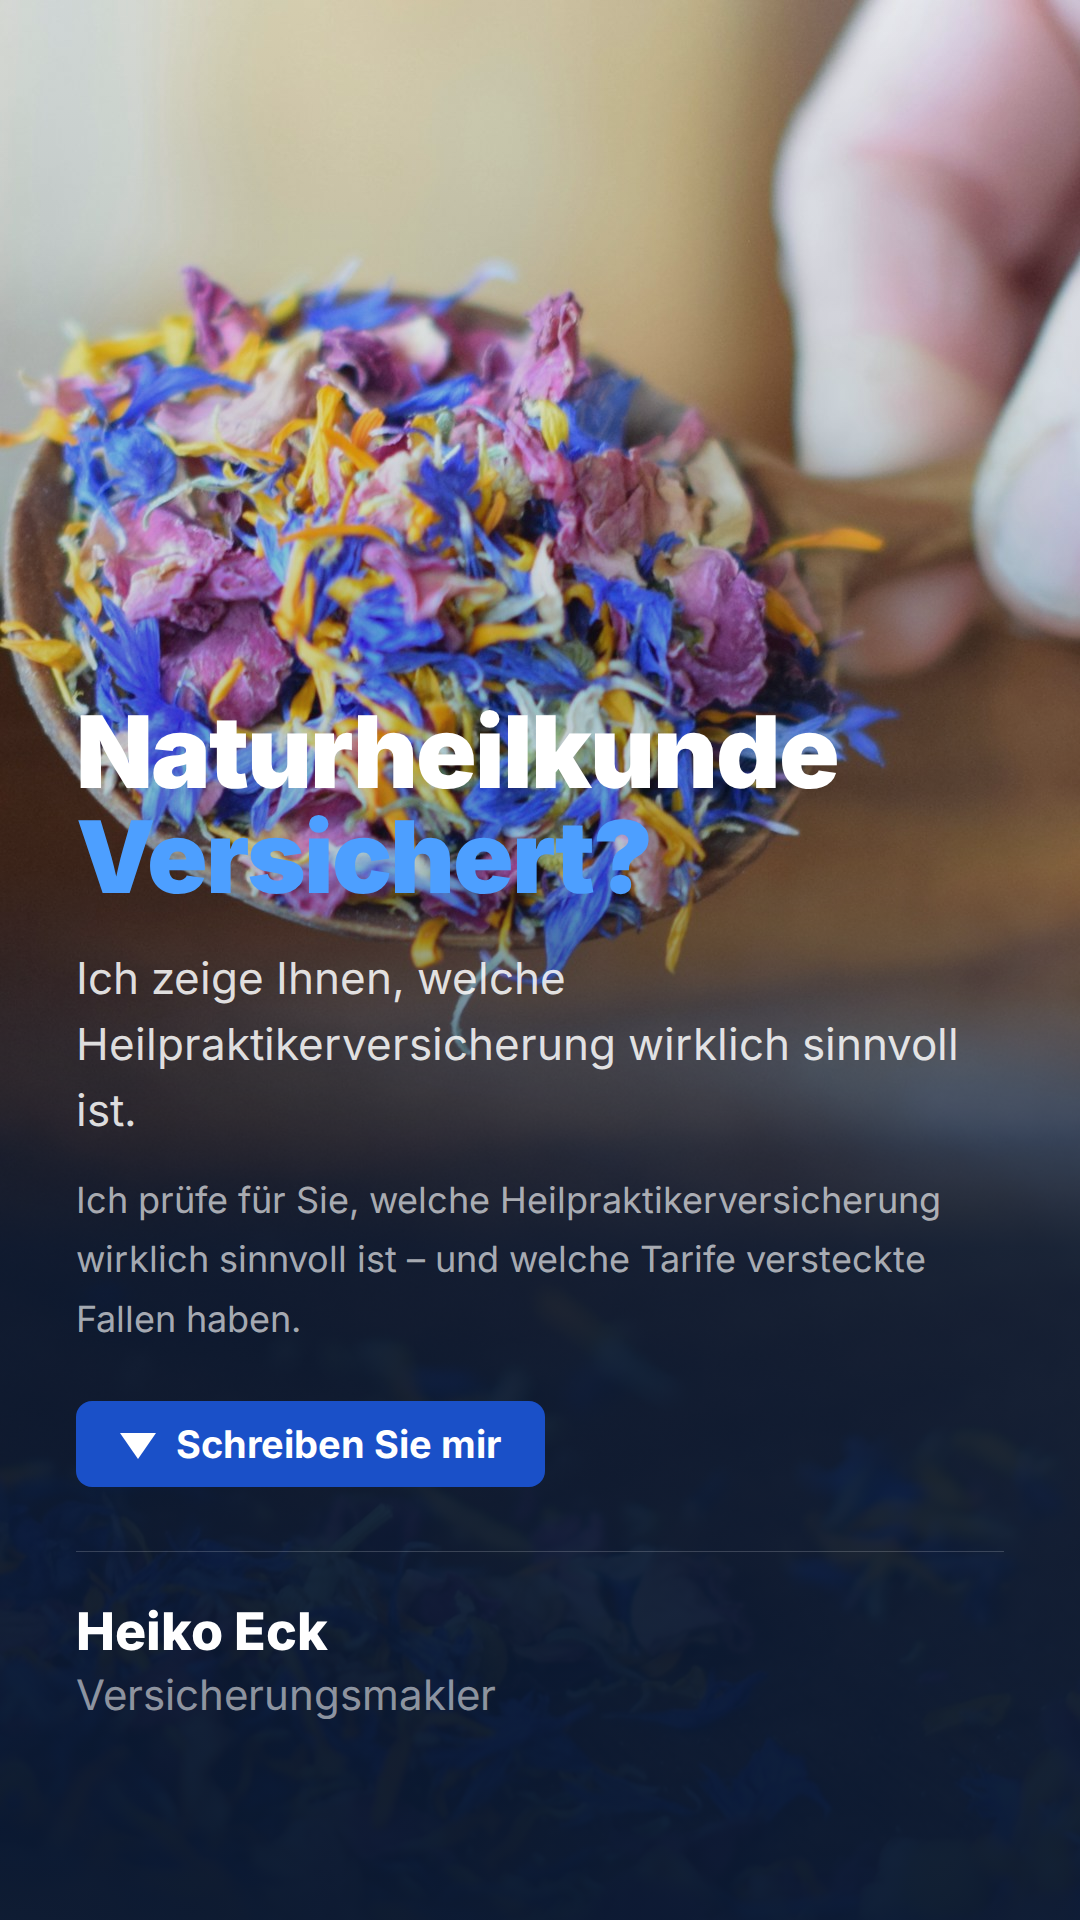
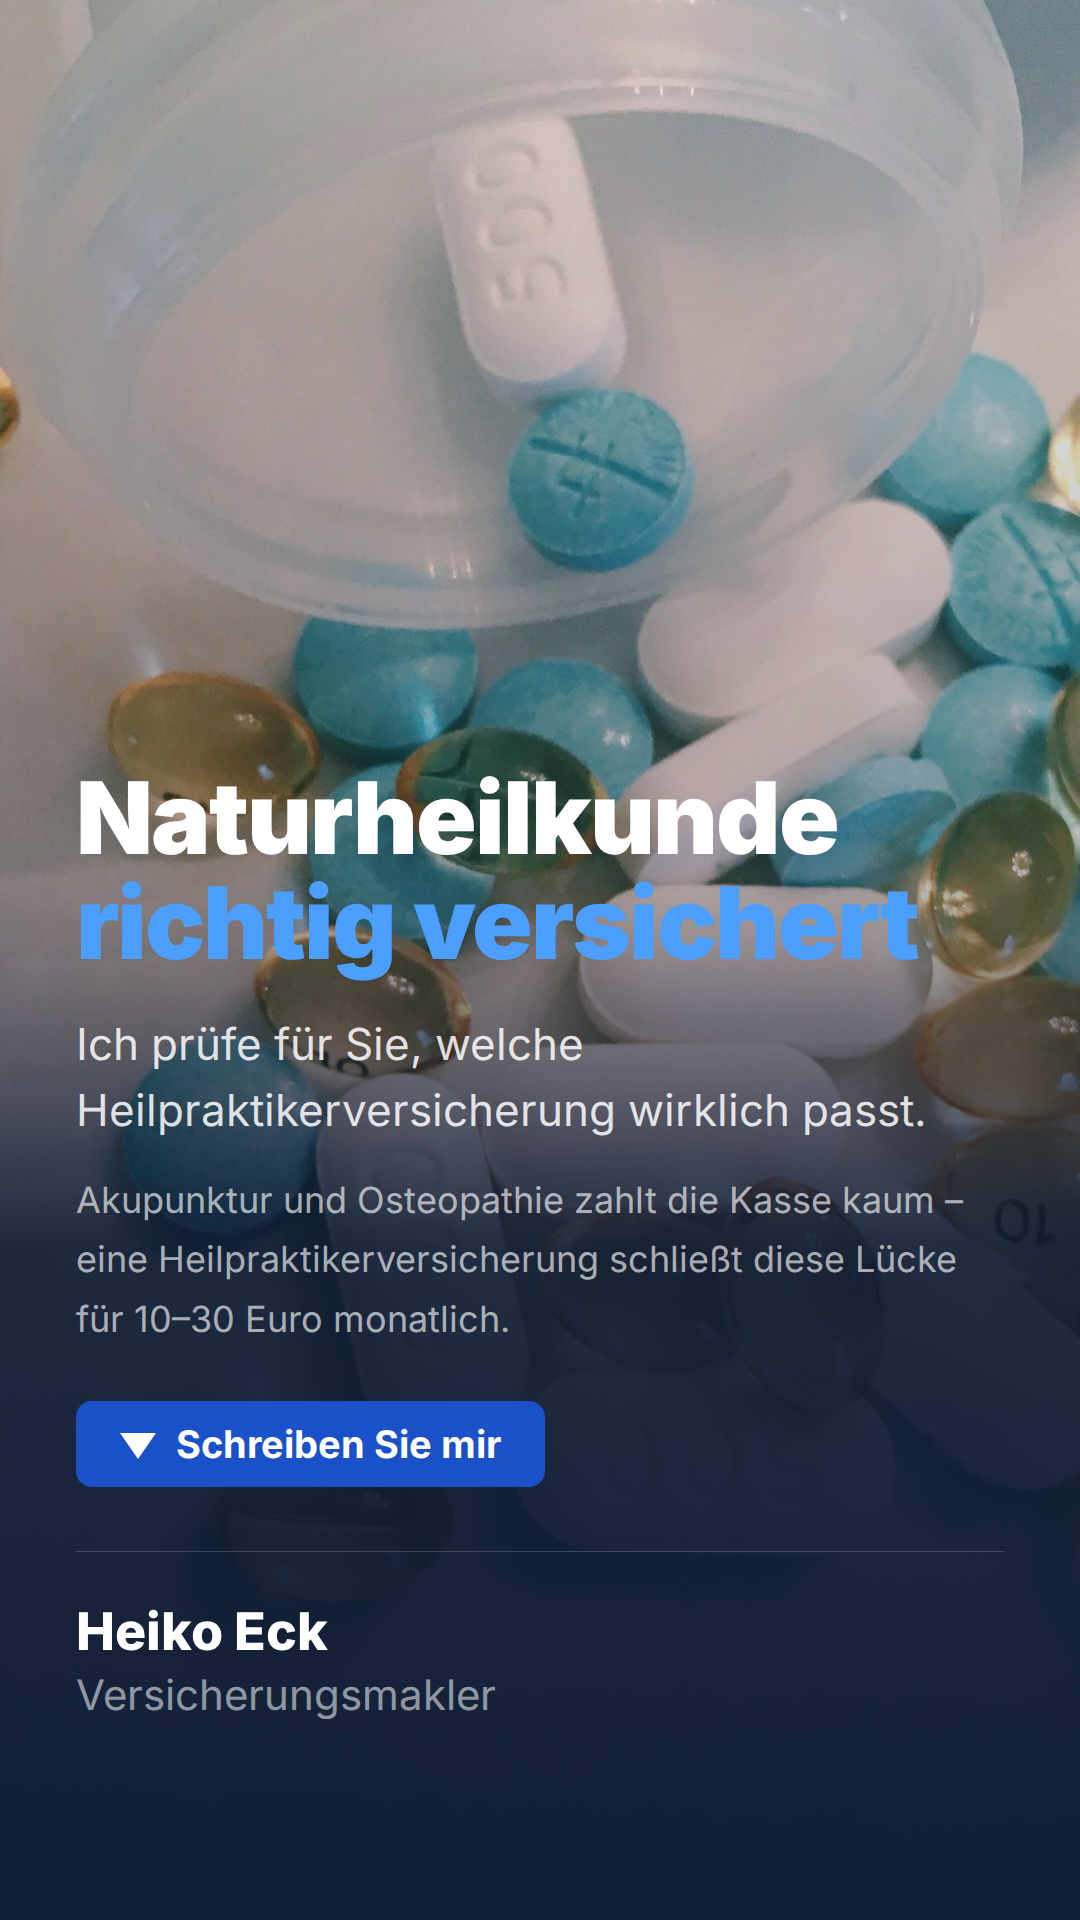
Blog-Entwurf: Heilpraktikerversicherung: Wann lohnt sich der Schutz?

diff --git a/blog/posts/2026-05-27-heilpraktikerversicherung-naturheilkunde.html b/blog/posts/2026-05-27-heilpraktikerversicherung-naturheilkunde.html
@@ -3,13 +3,13 @@
 <head>
   <meta charset="UTF-8" />
   <meta name="viewport" content="width=device-width, initial-scale=1.0" />
-  <title>Heilpraktikerversicherung: Lohnt sich der Abschluss? – Daniel Eck – Versicherungsmakler</title>
-  <meta name="description" content="Heilpraktikerversicherung: Lohnt sich der Abschluss? – Tipps und Informationen von Ihrem unabhängigen Versicherungsmakler Daniel Eck aus Schmalkalden." />
-  <meta property="og:title" content="Heilpraktikerversicherung: Lohnt sich der Abschluss?" />
-  <meta property="og:description" content="Heilpraktikerversicherung: Lohnt sich der Abschluss? – Tipps von Versicherungsmakler Daniel Eck aus Schmalkalden." />
+  <title>Heilpraktikerversicherung: Wann lohnt sich der Schutz? – Daniel Eck – Versicherungsmakler</title>
+  <meta name="description" content="Heilpraktikerversicherung: Wann lohnt sich der Schutz? – Tipps und Informationen von Ihrem unabhängigen Versicherungsmakler Daniel Eck aus Schmalkalden." />
+  <meta property="og:title" content="Heilpraktikerversicherung: Wann lohnt sich der Schutz?" />
+  <meta property="og:description" content="Heilpraktikerversicherung: Wann lohnt sich der Schutz? – Tipps von Versicherungsmakler Daniel Eck aus Schmalkalden." />
   <meta property="og:type" content="article" />
   <meta property="og:url" content="https://kneipenterroristecky-cmd.github.io/Webseite_Eckversicherung/blog/posts/2026-05-27-heilpraktikerversicherung-naturheilkunde.html" />
-  <meta property="og:image" content="https://images.unsplash.com/photo-1764272778391-4a95e2b5d429?w=1200&h=630&fit=crop&auto=format" />
+  <meta property="og:image" content="https://images.unsplash.com/photo-1512069772995-ec65ed45afd6?w=1200&h=630&fit=crop&auto=format" />
   <meta property="og:image:width" content="1200" />
   <meta property="og:image:height" content="630" />
   <meta property="og:site_name" content="Daniel Eck – Versicherungsmakler" />
@@ -214,7 +214,7 @@
   <section class="page-hero">
     <div class="page-hero-container">
       <span class="page-hero-label">Blog</span>
-      <h1 class="page-hero-title">Heilpraktikerversicherung: Lohnt sich der Abschluss?</h1>
+      <h1 class="page-hero-title">Heilpraktikerversicherung: Wann lohnt sich der Schutz?</h1>
       <p class="page-hero-meta"><i class="fas fa-calendar-alt" style="margin-right:6px"></i>27.05.2026 &nbsp;·&nbsp; Daniel Eck, Versicherungsmakler</p>
     </div>
   </section>
@@ -226,38 +226,40 @@
       <i class="fas fa-arrow-left"></i> Alle Beiträge
     </a>
 
-    <img src="https://images.unsplash.com/photo-1512069772995-ec65ed45afd6?w=1200&h=630&fit=crop&auto=format" alt="Heilpraktikerversicherung: Lohnt sich der Abschluss?" class="blog-hero-img" />
+    <img src="https://images.unsplash.com/photo-1512069772995-ec65ed45afd6?w=1200&h=630&fit=crop&auto=format" alt="Heilpraktikerversicherung: Wann lohnt sich der Schutz?" class="blog-hero-img" />
 
-    <p>Sie gehen gern zum Heilpraktiker, zur Osteopathie oder nutzen Akupunktur? Dann wissen Sie: Die gesetzliche Krankenkasse zahlt davon meistens nichts oder nur einen kleinen Zuschuss. Eine Heilpraktikerversicherung schließt genau diese Lücke – aber nicht jeder Tarif hält, was er verspricht.</p>
+    <p>Akupunktur, Osteopathie, Homöopathie – viele Menschen setzen auf alternative Heilmethoden. Das Problem: Die gesetzliche Krankenkasse zahlt davon fast nichts. Eine Heilpraktikerversicherung schließt diese Lücke – aber nicht jede Versicherung hält, was sie verspricht.</p>
 
-<h2>Was die Versicherung wirklich übernimmt</h2>
+<h2>Was die gesetzliche Kasse wirklich zahlt</h2>
 
-<p>Eine gute Heilpraktikerversicherung erstattet Behandlungen nach dem Gebührenverzeichnis für Heilpraktiker (GebüH). Das klingt erstmal gut, hat aber einen Haken: Die GebüH-Sätze stammen aus den 80er Jahren. Viele Heilpraktiker rechnen heute höher ab – und die Differenz zahlen Sie selbst.</p>
+<p>Kurz gesagt: wenig bis gar nichts. Einzelne Kassen bezuschussen Osteopathie oder Akupunktur mit kleinen Beträgen, aber das wars. Eine komplette Behandlungsserie beim Heilpraktiker kostet schnell 300 bis 500 Euro – und die bleiben an Ihnen hängen.</p>
 
-<p>Manche Tarife erstatten nur den einfachen GebüH-Satz, bessere das 1,5- oder 2-fache. Das macht bei einer Behandlungsserie einen Unterschied von mehreren hundert Euro. Genau solche Details prüfe ich bei jedem Angebot, bevor ich es Ihnen empfehle.</p>
+<p>Eine Heilpraktikerversicherung übernimmt diese Kosten, je nach Tarif zu 80 bis 100 Prozent. Die Beiträge liegen zwischen 10 und 30 Euro monatlich. Das rechnet sich schnell, wenn Sie regelmäßig alternative Behandlungen nutzen.</p>
 
-<h2>Die typischen Stolperfallen</h2>
+<h2>Worauf es bei der Tarifwahl ankommt</h2>
 
-<p>Viele Tarife locken mit günstigen Beiträgen, haben aber strenge Summenbegrenzungen. 500 Euro im Jahr klingen nach viel – sind bei regelmäßiger Osteopathie aber nach drei bis vier Sitzungen aufgebraucht. Auch Wartezeiten von drei bis acht Monaten sind üblich.</p>
+<p>Nicht jede Versicherung erstattet jede Behandlung. Manche Tarife schließen bestimmte Verfahren aus oder begrenzen die Erstattung auf das Hufeland-Verzeichnis. Andere haben niedrige Jahreslimits, die schnell aufgebraucht sind.</p>
 
-<p>Ein weiterer Punkt, den ich kritisch sehe: Manche Versicherer schließen bestimmte Behandlungsmethoden komplett aus. Oder sie zahlen nur, wenn der Behandler im Heilpraktikerregister steht. Das prüfe ich vorher – damit Sie später keine böse Überraschung erleben.</p>
+<p>Besonders wichtig: die Wartezeit. Die meisten Tarife leisten erst nach drei bis acht Monaten. Wer also akute Beschwerden hat, muss die erste Behandlung trotzdem selbst zahlen. Das prüfe ich bei jeder Anfrage genau durch.</p>
 
-<h2>Für wen lohnt sich der Abschluss?</h2>
+<h2>Ehrlich gesagt: Für wen lohnt es sich nicht?</h2>
 
-<p>Wenn Sie regelmäßig alternative Behandlungen nutzen, rechnet sich die Versicherung schnell. Bei Beiträgen zwischen 10 und 30 Euro monatlich und Erstattungen von 1.000 Euro oder mehr pro Jahr ist das Verhältnis oft fair.</p>
+<p>Wenn Sie nur einmal im Jahr zur Massage gehen, ist eine Heilpraktikerversicherung wahrscheinlich überflüssig. Da zahlen Sie mehr Beitrag als Sie jemals erstattet bekommen. Die Versicherung macht Sinn, wenn Sie regelmäßig alternative Behandlungen nutzen oder chronische Beschwerden haben.</p>
 
-<p>Nutzen Sie Naturheilkunde nur selten, kann Selbstzahlen günstiger sein. Ehrlich gesagt: Nicht jeder braucht diese Versicherung. Das bespreche ich lieber offen mit Ihnen, statt Ihnen etwas Unnötiges zu verkaufen.</p>
+<p>Auch wichtig zu wissen: Vorerkrankungen können zum Problem werden. Manche Anbieter lehnen ab oder schließen bestimmte Behandlungen aus. Das kläre ich im Vorfeld, damit Sie keine böse Überraschung erleben.</p>
+
+<h2>Das prüfe ich bei jedem Vertrag durch:</h2>
 
 <ul>
-<li>Erstattungshöhe: Mindestens 1,5-facher GebüH-Satz sinnvoll</li>
-<li>Jahreshöchstgrenze: Mindestens 1.000 Euro für regelmäßige Nutzer</li>
-<li>Wartezeiten: Je kürzer, desto besser – manche Tarife haben keine</li>
-<li>Leistungskatalog: Osteopathie, Akupunktur und Homöopathie sollten enthalten sein</li>
-<li>Kombinierbarkeit: Oft als Baustein in Krankenzusatzversicherungen günstiger</li>
-<li>Beitragsanpassung: Auf moderate Steigerungsklauseln achten</li>
+<li>Welche Behandlungsmethoden sind tatsächlich abgedeckt?</li>
+<li>Wie hoch ist das Jahreslimit – und reicht das für Ihren Bedarf?</li>
+<li>Gibt es Wartezeiten und wenn ja, wie lange?</li>
+<li>Werden Ihre Vorerkrankungen zum Problem?</li>
+<li>Lohnt sich ein Kombitarif mit Zahnzusatz oder Brille?</li>
+<li>Stimmt das Preis-Leistungs-Verhältnis wirklich?</li>
 </ul>
 
-<p>Ob sich eine Heilpraktikerversicherung für Sie rechnet und welcher Tarif zu Ihren Behandlungen passt – das schaue ich gerne gemeinsam mit Ihnen durch.</p>
+<p>Naturheilkunde kann eine echte Bereicherung sein – aber nur, wenn die Versicherung im Ernstfall auch zahlt. Bevor Sie irgendeinen Tarif abschließen, schaue ich mir Ihre Situation an und finde die passende Lösung. Sprechen Sie mich einfach an.</p>
 
     <!-- Autor-Box -->
     <div class="blog-author-box">

diff --git a/social/latest-ig-heiko.html b/social/latest-ig-heiko.html
@@ -23,12 +23,12 @@
 </head>
 <body>
 <div class="wrap">
-  <img class="bg-img" src="https://images.unsplash.com/photo-1764272778391-4a95e2b5d429?w=1080&h=1920&fit=crop&auto=format" />
+  <img class="bg-img" src="https://images.unsplash.com/photo-1512069772995-ec65ed45afd6?w=1080&h=1920&fit=crop&crop=focalpoint&fp-x=0.5&fp-y=0.35&auto=format" />
   <div class="overlay"></div>
   <div class="content">
-    <h1>Naturheilkunde<br><span>Versichert?</span></h1>
-    <p class="sub">Ich zeige Ihnen, welche Heilpraktikerversicherung wirklich sinnvoll ist.</p>
-    <p class="body">Ich prüfe für Sie, welche Heilpraktikerversicherung wirklich sinnvoll ist – und welche Tarife versteckte Fallen haben.</p>
+    <h1>Naturheilkunde<br><span>richtig versichert</span></h1>
+    <p class="sub">Ich prüfe für Sie, welche Heilpraktikerversicherung wirklich passt.</p>
+    <p class="body">Akupunktur und Osteopathie zahlt die Kasse kaum – eine Heilpraktikerversicherung schließt diese Lücke für 10–30 Euro monatlich.</p>
     <div class="cta"><span class="cta-arrow"></span> Schreiben Sie mir</div>
     <div class="divider"></div>
     <div class="branding">

diff --git a/social/latest-ig.html b/social/latest-ig.html
@@ -23,12 +23,12 @@
 </head>
 <body>
 <div class="wrap">
-  <img class="bg-img" src="https://images.unsplash.com/photo-1764272778391-4a95e2b5d429?w=1080&h=1920&fit=crop&auto=format" />
+  <img class="bg-img" src="https://images.unsplash.com/photo-1512069772995-ec65ed45afd6?w=1080&h=1920&fit=crop&crop=focalpoint&fp-x=0.5&fp-y=0.35&auto=format" />
   <div class="overlay"></div>
   <div class="content">
-    <h1>Naturheilkunde<br><span>Versichert?</span></h1>
-    <p class="sub">Ich zeige Ihnen, welche Heilpraktikerversicherung wirklich sinnvoll ist.</p>
-    <p class="body">Ich prüfe für Sie, welche Heilpraktikerversicherung wirklich sinnvoll ist – und welche Tarife versteckte Fallen haben.</p>
+    <h1>Naturheilkunde<br><span>richtig versichert</span></h1>
+    <p class="sub">Ich prüfe für Sie, welche Heilpraktikerversicherung wirklich passt.</p>
+    <p class="body">Akupunktur und Osteopathie zahlt die Kasse kaum – eine Heilpraktikerversicherung schließt diese Lücke für 10–30 Euro monatlich.</p>
     <div class="cta"><span class="cta-arrow"></span> Schreiben Sie mir</div>
     <div class="divider"></div>
     <div class="branding">
